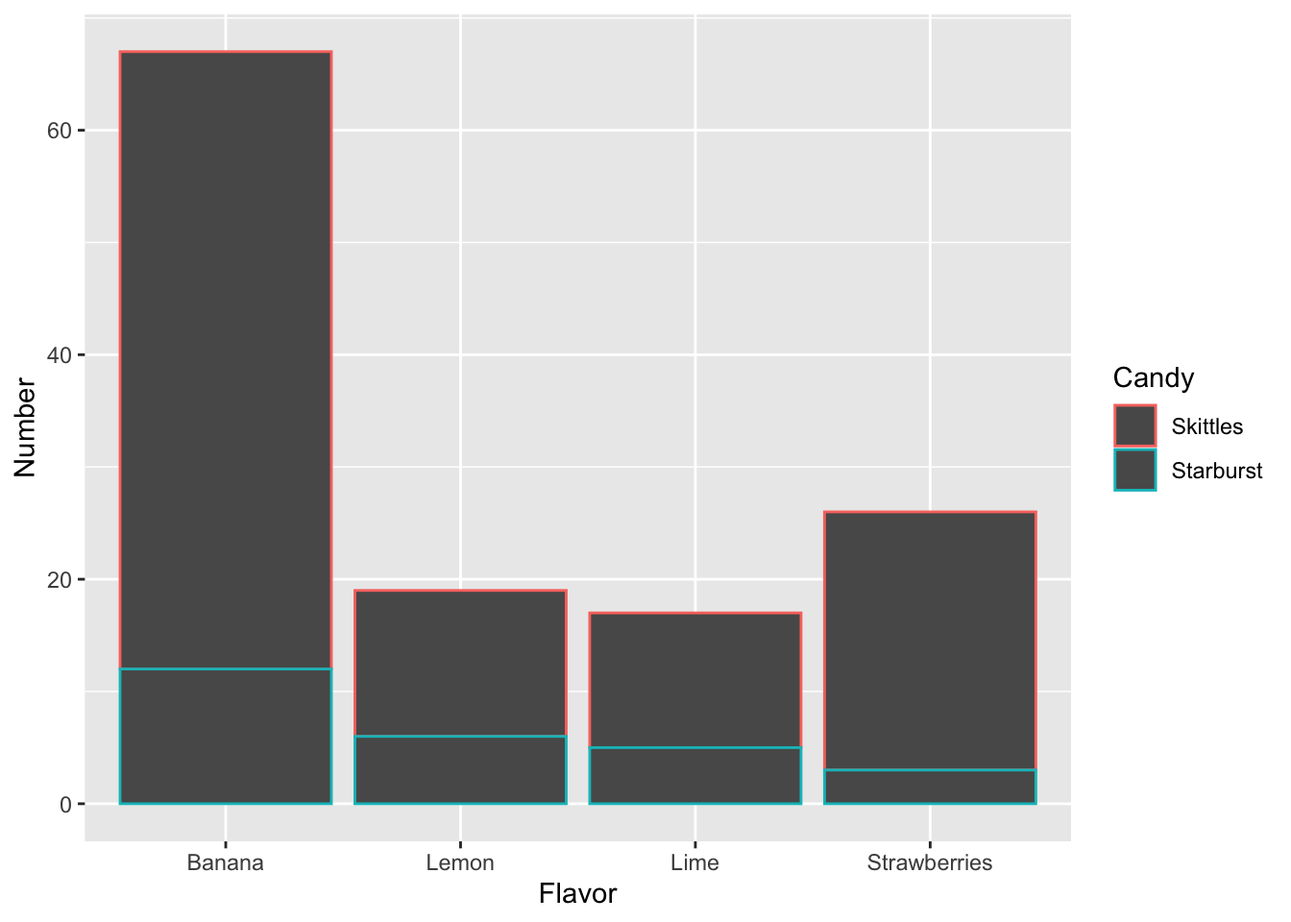
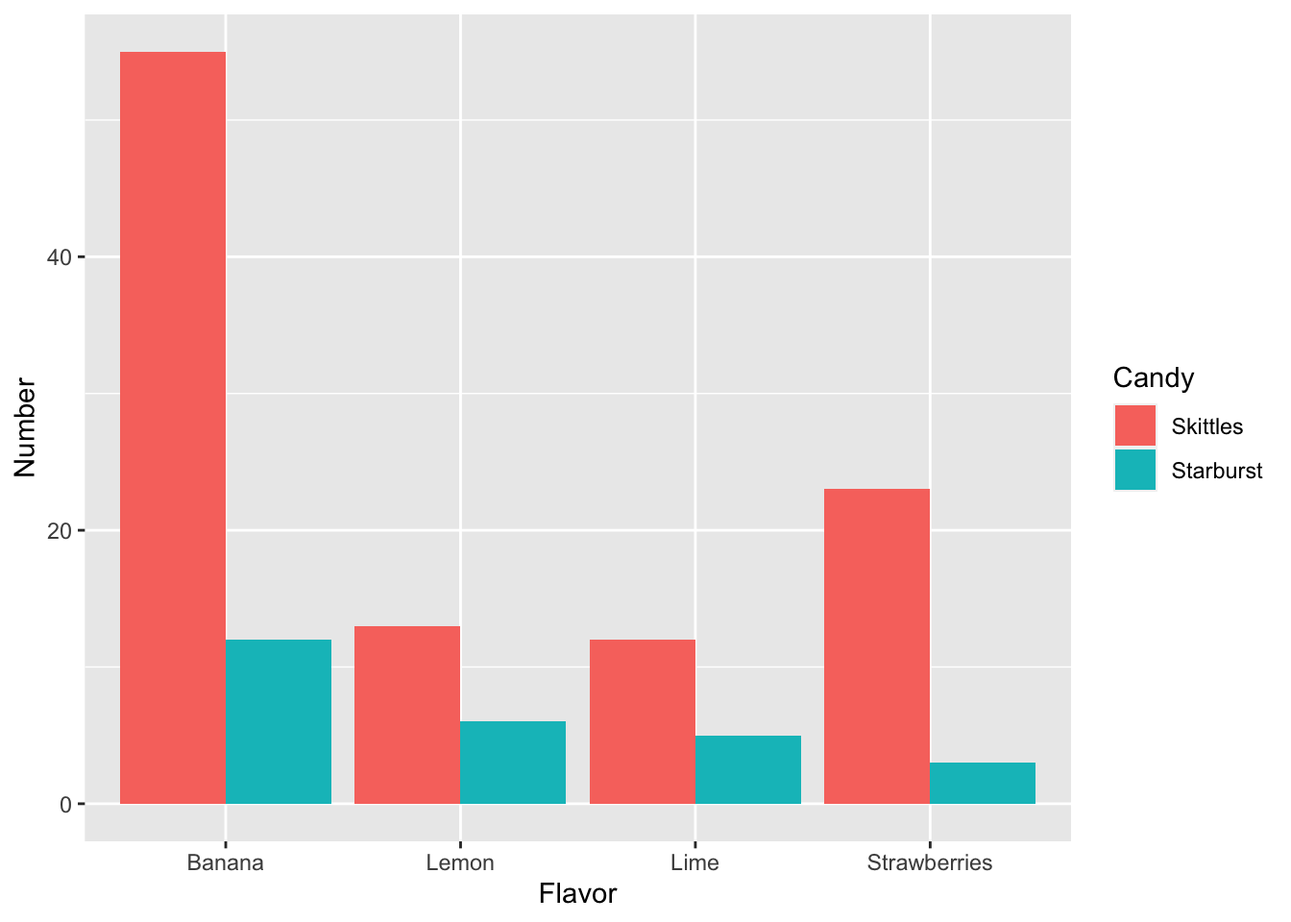
plots

Changed region(s): [[0.0312, 0.0312, 0.8125, 0.875], [0.8438, 0.4375, 0.9062, 0.5312]]

diff --git a/docs/creating-datasets-and-replicability.html b/docs/creating-datasets-and-replicability.html
@@ -181,13 +181,11 @@ code span.wa { color: #60a0b0; font-weight: bold; font-style: italic; } /* Warni
 </ul></li>
 <li class="chapter" data-level="6" data-path="creating-datasets-and-replicability.html"><a href="creating-datasets-and-replicability.html"><i class="fa fa-check"></i><b>6</b> Creating datasets and replicability</a>
 <ul>
-<li class="chapter" data-level="6.1" data-path="creating-datasets-and-replicability.html"><a href="creating-datasets-and-replicability.html#creating-datasets"><i class="fa fa-check"></i><b>6.1</b> Creating datasets</a>
-<ul>
-<li class="chapter" data-level="6.1.1" data-path="creating-datasets-and-replicability.html"><a href="creating-datasets-and-replicability.html#asking-biological-questions-and-identifying-measurable-outcomes"><i class="fa fa-check"></i><b>6.1.1</b> Asking biological questions and identifying measurable outcomes</a></li>
-<li class="chapter" data-level="6.1.2" data-path="creating-datasets-and-replicability.html"><a href="creating-datasets-and-replicability.html#creating-a-clean-raw-dataset"><i class="fa fa-check"></i><b>6.1.2</b> Creating a clean raw dataset</a></li>
-<li class="chapter" data-level="6.1.3" data-path="creating-datasets-and-replicability.html"><a href="creating-datasets-and-replicability.html#creating-basic-basic-plots-in-r"><i class="fa fa-check"></i><b>6.1.3</b> Creating basic (basic) plots in R</a></li>
-<li class="chapter" data-level="6.1.4" data-path="creating-datasets-and-replicability.html"><a href="creating-datasets-and-replicability.html#comparisons-between-groups."><i class="fa fa-check"></i><b>6.1.4</b> Comparisons between groups.</a></li>
-</ul></li>
+<li class="chapter" data-level="6.1" data-path="creating-datasets-and-replicability.html"><a href="creating-datasets-and-replicability.html#creating-basic-datasets"><i class="fa fa-check"></i><b>6.1</b> Creating basic datasets</a></li>
+<li class="chapter" data-level="6.2" data-path="creating-datasets-and-replicability.html"><a href="creating-datasets-and-replicability.html#asking-biological-questions-and-identifying-measurable-outcomes"><i class="fa fa-check"></i><b>6.2</b> Asking biological questions and identifying measurable outcomes</a></li>
+<li class="chapter" data-level="6.3" data-path="creating-datasets-and-replicability.html"><a href="creating-datasets-and-replicability.html#creating-a-clean-raw-dataset"><i class="fa fa-check"></i><b>6.3</b> Creating a clean raw dataset</a></li>
+<li class="chapter" data-level="6.4" data-path="creating-datasets-and-replicability.html"><a href="creating-datasets-and-replicability.html#creating-basic-basic-plots-in-r"><i class="fa fa-check"></i><b>6.4</b> Creating basic (basic) plots in R</a></li>
+<li class="chapter" data-level="6.5" data-path="creating-datasets-and-replicability.html"><a href="creating-datasets-and-replicability.html#comparisons-between-groups."><i class="fa fa-check"></i><b>6.5</b> Comparisons between groups.</a></li>
 </ul></li>
 <li class="divider"></li>
 <li><a href="https://github.com/rstudio/bookdown" target="blank">Published with bookdown</a></li>
@@ -231,13 +229,14 @@ hypothesis?
 </li>
 </ul>
 </div>
-<div id="creating-datasets" class="section level2 hasAnchor" number="6.1">
-<h2><span class="header-section-number">6.1</span> Creating datasets<a href="creating-datasets-and-replicability.html#creating-datasets" class="anchor-section" aria-label="Anchor link to header"></a></h2>
+<div id="creating-basic-datasets" class="section level2 hasAnchor" number="6.1">
+<h2><span class="header-section-number">6.1</span> Creating basic datasets<a href="creating-datasets-and-replicability.html#creating-basic-datasets" class="anchor-section" aria-label="Anchor link to header"></a></h2>
 <p>So, we have a bag of candy in front of us.</p>
 <p>Bags of candy have several different elements on it: The various flavors, the diversity in colors. Some may have different shapes, ect.</p>
 <p>The objective for today is to ask research questions and create a dataset that allows you to answer different questions based on your research focus (in this case, <em>your candy bag</em>)</p>
-<div id="asking-biological-questions-and-identifying-measurable-outcomes" class="section level3 hasAnchor" number="6.1.1">
-<h3><span class="header-section-number">6.1.1</span> Asking biological questions and identifying measurable outcomes<a href="creating-datasets-and-replicability.html#asking-biological-questions-and-identifying-measurable-outcomes" class="anchor-section" aria-label="Anchor link to header"></a></h3>
+</div>
+<div id="asking-biological-questions-and-identifying-measurable-outcomes" class="section level2 hasAnchor" number="6.2">
+<h2><span class="header-section-number">6.2</span> Asking biological questions and identifying measurable outcomes<a href="creating-datasets-and-replicability.html#asking-biological-questions-and-identifying-measurable-outcomes" class="anchor-section" aria-label="Anchor link to header"></a></h2>
 <ol style="list-style-type: decimal">
 <li>Create groups of two students</li>
 <li>Open the bag of candy and generate some observations about it. It can be about anything you find interesting or peaks your interest</li>
@@ -321,8 +320,8 @@ Question 5
 </div>
 <hr />
 </div>
-<div id="creating-a-clean-raw-dataset" class="section level3 hasAnchor" number="6.1.2">
-<h3><span class="header-section-number">6.1.2</span> Creating a clean raw dataset<a href="creating-datasets-and-replicability.html#creating-a-clean-raw-dataset" class="anchor-section" aria-label="Anchor link to header"></a></h3>
+<div id="creating-a-clean-raw-dataset" class="section level2 hasAnchor" number="6.3">
+<h2><span class="header-section-number">6.3</span> Creating a clean raw dataset<a href="creating-datasets-and-replicability.html#creating-a-clean-raw-dataset" class="anchor-section" aria-label="Anchor link to header"></a></h2>
 <ol style="list-style-type: decimal">
 <li><p>Using the same dataset, organize your data in a simple data frame using <a href="https://www.google.com/sheets/about/">Google Sheets</a> or <a href="https://ethercalc.net/">EtherCalc</a></p></li>
 <li><p>Copy your spreadsheet into <code>atom</code>, paste it and save it file into a folder in your desktop called <code>BIOL120</code> with a <code>txt</code> extension (something like <code>data_sheet_candy.txt</code>)</p></li>
@@ -385,8 +384,8 @@ explanation why
 </div>
 <hr />
 </div>
-<div id="creating-basic-basic-plots-in-r" class="section level3 hasAnchor" number="6.1.3">
-<h3><span class="header-section-number">6.1.3</span> Creating basic (basic) plots in R<a href="creating-datasets-and-replicability.html#creating-basic-basic-plots-in-r" class="anchor-section" aria-label="Anchor link to header"></a></h3>
+<div id="creating-basic-basic-plots-in-r" class="section level2 hasAnchor" number="6.4">
+<h2><span class="header-section-number">6.4</span> Creating basic (basic) plots in R<a href="creating-datasets-and-replicability.html#creating-basic-basic-plots-in-r" class="anchor-section" aria-label="Anchor link to header"></a></h2>
 <p>Now that you have your data set readable by a computer program, we can do some very basic visualization to make it easier to interpret.</p>
 <p>To do so, we need to install one simple <code>R package</code> that will allow us to create plots. This package is called <a href="https://ggplot2.tidyverse.org/index.html"><code>ggplot</code></a>.</p>
 <div class="rmdinfo">
@@ -466,8 +465,8 @@ Is this an easier way of comparing your data? Explain why.
 </div>
 <hr />
 </div>
-<div id="comparisons-between-groups." class="section level3 hasAnchor" number="6.1.4">
-<h3><span class="header-section-number">6.1.4</span> Comparisons between groups.<a href="creating-datasets-and-replicability.html#comparisons-between-groups." class="anchor-section" aria-label="Anchor link to header"></a></h3>
+<div id="comparisons-between-groups." class="section level2 hasAnchor" number="6.5">
+<h2><span class="header-section-number">6.5</span> Comparisons between groups.<a href="creating-datasets-and-replicability.html#comparisons-between-groups." class="anchor-section" aria-label="Anchor link to header"></a></h2>
 <p>Now, lets see how our data collection is compared to the other groups</p>
 <ol style="list-style-type: decimal">
 <li>Get together with another group</li>
@@ -674,7 +673,7 @@ In this case, we can separate the flavors from each candy.
 </div>
 <p>Modify the following code with your column names:</p>
 <div class="sourceCode" id="cb10"><pre class="sourceCode r"><code class="sourceCode r"><span id="cb10-1"><a href="creating-datasets-and-replicability.html#cb10-1" aria-hidden="true" tabindex="-1"></a>two_candies <span class="ot">&lt;-</span> <span class="fu">read.table</span>(<span class="st">&#39;data_sheet_two_candies.txt&#39;</span>, <span class="at">header =</span> T)</span></code></pre></div>
-<div class="sourceCode" id="cb11"><pre class="sourceCode r"><code class="sourceCode r"><span id="cb11-1"><a href="creating-datasets-and-replicability.html#cb11-1" aria-hidden="true" tabindex="-1"></a><span class="fu">ggplot</span>(<span class="at">data=</span>two_candies, <span class="fu">aes</span>(<span class="at">x=</span>Flavor, <span class="at">y=</span>Number, <span class="at">color=</span>Candy)) <span class="sc">+</span> <span class="fu">geom_bar</span>(<span class="at">stat=</span><span class="st">&#39;identity&#39;</span>)</span></code></pre></div>
+<div class="sourceCode" id="cb11"><pre class="sourceCode r"><code class="sourceCode r"><span id="cb11-1"><a href="creating-datasets-and-replicability.html#cb11-1" aria-hidden="true" tabindex="-1"></a><span class="fu">ggplot</span>(<span class="at">data=</span>two_candies, <span class="fu">aes</span>(<span class="at">x=</span>Flavor, <span class="at">y=</span>Number, <span class="at">fill=</span>Candy)) <span class="sc">+</span> <span class="fu">geom_bar</span>(<span class="at">stat=</span><span class="st">&#39;identity&#39;</span>, <span class="at">position=</span><span class="st">&quot;dodge&quot;</span>)</span></code></pre></div>
 <p><img src="_main_files/figure-html/two_candy_plot-1.png" width="672" /></p>
 <div class="rmdquestion">
 <h4 id="question-13">
@@ -695,7 +694,6 @@ changed?
 </ul>
 </div>
 
-</div>
 </div>
 </div>
             </section>

diff --git a/docs/404.html b/docs/404.html
@@ -181,13 +181,11 @@ code span.wa { color: #60a0b0; font-weight: bold; font-style: italic; } /* Warni
 </ul></li>
 <li class="chapter" data-level="6" data-path="creating-datasets-and-replicability.html"><a href="creating-datasets-and-replicability.html"><i class="fa fa-check"></i><b>6</b> Creating datasets and replicability</a>
 <ul>
-<li class="chapter" data-level="6.1" data-path="creating-datasets-and-replicability.html"><a href="creating-datasets-and-replicability.html#creating-datasets"><i class="fa fa-check"></i><b>6.1</b> Creating datasets</a>
-<ul>
-<li class="chapter" data-level="6.1.1" data-path="creating-datasets-and-replicability.html"><a href="creating-datasets-and-replicability.html#asking-biological-questions-and-identifying-measurable-outcomes"><i class="fa fa-check"></i><b>6.1.1</b> Asking biological questions and identifying measurable outcomes</a></li>
-<li class="chapter" data-level="6.1.2" data-path="creating-datasets-and-replicability.html"><a href="creating-datasets-and-replicability.html#creating-a-clean-raw-dataset"><i class="fa fa-check"></i><b>6.1.2</b> Creating a clean raw dataset</a></li>
-<li class="chapter" data-level="6.1.3" data-path="creating-datasets-and-replicability.html"><a href="creating-datasets-and-replicability.html#creating-basic-basic-plots-in-r"><i class="fa fa-check"></i><b>6.1.3</b> Creating basic (basic) plots in R</a></li>
-<li class="chapter" data-level="6.1.4" data-path="creating-datasets-and-replicability.html"><a href="creating-datasets-and-replicability.html#comparisons-between-groups."><i class="fa fa-check"></i><b>6.1.4</b> Comparisons between groups.</a></li>
-</ul></li>
+<li class="chapter" data-level="6.1" data-path="creating-datasets-and-replicability.html"><a href="creating-datasets-and-replicability.html#creating-basic-datasets"><i class="fa fa-check"></i><b>6.1</b> Creating basic datasets</a></li>
+<li class="chapter" data-level="6.2" data-path="creating-datasets-and-replicability.html"><a href="creating-datasets-and-replicability.html#asking-biological-questions-and-identifying-measurable-outcomes"><i class="fa fa-check"></i><b>6.2</b> Asking biological questions and identifying measurable outcomes</a></li>
+<li class="chapter" data-level="6.3" data-path="creating-datasets-and-replicability.html"><a href="creating-datasets-and-replicability.html#creating-a-clean-raw-dataset"><i class="fa fa-check"></i><b>6.3</b> Creating a clean raw dataset</a></li>
+<li class="chapter" data-level="6.4" data-path="creating-datasets-and-replicability.html"><a href="creating-datasets-and-replicability.html#creating-basic-basic-plots-in-r"><i class="fa fa-check"></i><b>6.4</b> Creating basic (basic) plots in R</a></li>
+<li class="chapter" data-level="6.5" data-path="creating-datasets-and-replicability.html"><a href="creating-datasets-and-replicability.html#comparisons-between-groups."><i class="fa fa-check"></i><b>6.5</b> Comparisons between groups.</a></li>
 </ul></li>
 <li class="divider"></li>
 <li><a href="https://github.com/rstudio/bookdown" target="blank">Published with bookdown</a></li>

diff --git a/docs/index.html b/docs/index.html
@@ -181,13 +181,11 @@ code span.wa { color: #60a0b0; font-weight: bold; font-style: italic; } /* Warni
 </ul></li>
 <li class="chapter" data-level="6" data-path="creating-datasets-and-replicability.html"><a href="creating-datasets-and-replicability.html"><i class="fa fa-check"></i><b>6</b> Creating datasets and replicability</a>
 <ul>
-<li class="chapter" data-level="6.1" data-path="creating-datasets-and-replicability.html"><a href="creating-datasets-and-replicability.html#creating-datasets"><i class="fa fa-check"></i><b>6.1</b> Creating datasets</a>
-<ul>
-<li class="chapter" data-level="6.1.1" data-path="creating-datasets-and-replicability.html"><a href="creating-datasets-and-replicability.html#asking-biological-questions-and-identifying-measurable-outcomes"><i class="fa fa-check"></i><b>6.1.1</b> Asking biological questions and identifying measurable outcomes</a></li>
-<li class="chapter" data-level="6.1.2" data-path="creating-datasets-and-replicability.html"><a href="creating-datasets-and-replicability.html#creating-a-clean-raw-dataset"><i class="fa fa-check"></i><b>6.1.2</b> Creating a clean raw dataset</a></li>
-<li class="chapter" data-level="6.1.3" data-path="creating-datasets-and-replicability.html"><a href="creating-datasets-and-replicability.html#creating-basic-basic-plots-in-r"><i class="fa fa-check"></i><b>6.1.3</b> Creating basic (basic) plots in R</a></li>
-<li class="chapter" data-level="6.1.4" data-path="creating-datasets-and-replicability.html"><a href="creating-datasets-and-replicability.html#comparisons-between-groups."><i class="fa fa-check"></i><b>6.1.4</b> Comparisons between groups.</a></li>
-</ul></li>
+<li class="chapter" data-level="6.1" data-path="creating-datasets-and-replicability.html"><a href="creating-datasets-and-replicability.html#creating-basic-datasets"><i class="fa fa-check"></i><b>6.1</b> Creating basic datasets</a></li>
+<li class="chapter" data-level="6.2" data-path="creating-datasets-and-replicability.html"><a href="creating-datasets-and-replicability.html#asking-biological-questions-and-identifying-measurable-outcomes"><i class="fa fa-check"></i><b>6.2</b> Asking biological questions and identifying measurable outcomes</a></li>
+<li class="chapter" data-level="6.3" data-path="creating-datasets-and-replicability.html"><a href="creating-datasets-and-replicability.html#creating-a-clean-raw-dataset"><i class="fa fa-check"></i><b>6.3</b> Creating a clean raw dataset</a></li>
+<li class="chapter" data-level="6.4" data-path="creating-datasets-and-replicability.html"><a href="creating-datasets-and-replicability.html#creating-basic-basic-plots-in-r"><i class="fa fa-check"></i><b>6.4</b> Creating basic (basic) plots in R</a></li>
+<li class="chapter" data-level="6.5" data-path="creating-datasets-and-replicability.html"><a href="creating-datasets-and-replicability.html#comparisons-between-groups."><i class="fa fa-check"></i><b>6.5</b> Comparisons between groups.</a></li>
 </ul></li>
 <li class="divider"></li>
 <li><a href="https://github.com/rstudio/bookdown" target="blank">Published with bookdown</a></li>

diff --git a/docs/rmark.html b/docs/rmark.html
@@ -181,13 +181,11 @@ code span.wa { color: #60a0b0; font-weight: bold; font-style: italic; } /* Warni
 </ul></li>
 <li class="chapter" data-level="6" data-path="creating-datasets-and-replicability.html"><a href="creating-datasets-and-replicability.html"><i class="fa fa-check"></i><b>6</b> Creating datasets and replicability</a>
 <ul>
-<li class="chapter" data-level="6.1" data-path="creating-datasets-and-replicability.html"><a href="creating-datasets-and-replicability.html#creating-datasets"><i class="fa fa-check"></i><b>6.1</b> Creating datasets</a>
-<ul>
-<li class="chapter" data-level="6.1.1" data-path="creating-datasets-and-replicability.html"><a href="creating-datasets-and-replicability.html#asking-biological-questions-and-identifying-measurable-outcomes"><i class="fa fa-check"></i><b>6.1.1</b> Asking biological questions and identifying measurable outcomes</a></li>
-<li class="chapter" data-level="6.1.2" data-path="creating-datasets-and-replicability.html"><a href="creating-datasets-and-replicability.html#creating-a-clean-raw-dataset"><i class="fa fa-check"></i><b>6.1.2</b> Creating a clean raw dataset</a></li>
-<li class="chapter" data-level="6.1.3" data-path="creating-datasets-and-replicability.html"><a href="creating-datasets-and-replicability.html#creating-basic-basic-plots-in-r"><i class="fa fa-check"></i><b>6.1.3</b> Creating basic (basic) plots in R</a></li>
-<li class="chapter" data-level="6.1.4" data-path="creating-datasets-and-replicability.html"><a href="creating-datasets-and-replicability.html#comparisons-between-groups."><i class="fa fa-check"></i><b>6.1.4</b> Comparisons between groups.</a></li>
-</ul></li>
+<li class="chapter" data-level="6.1" data-path="creating-datasets-and-replicability.html"><a href="creating-datasets-and-replicability.html#creating-basic-datasets"><i class="fa fa-check"></i><b>6.1</b> Creating basic datasets</a></li>
+<li class="chapter" data-level="6.2" data-path="creating-datasets-and-replicability.html"><a href="creating-datasets-and-replicability.html#asking-biological-questions-and-identifying-measurable-outcomes"><i class="fa fa-check"></i><b>6.2</b> Asking biological questions and identifying measurable outcomes</a></li>
+<li class="chapter" data-level="6.3" data-path="creating-datasets-and-replicability.html"><a href="creating-datasets-and-replicability.html#creating-a-clean-raw-dataset"><i class="fa fa-check"></i><b>6.3</b> Creating a clean raw dataset</a></li>
+<li class="chapter" data-level="6.4" data-path="creating-datasets-and-replicability.html"><a href="creating-datasets-and-replicability.html#creating-basic-basic-plots-in-r"><i class="fa fa-check"></i><b>6.4</b> Creating basic (basic) plots in R</a></li>
+<li class="chapter" data-level="6.5" data-path="creating-datasets-and-replicability.html"><a href="creating-datasets-and-replicability.html#comparisons-between-groups."><i class="fa fa-check"></i><b>6.5</b> Comparisons between groups.</a></li>
 </ul></li>
 <li class="divider"></li>
 <li><a href="https://github.com/rstudio/bookdown" target="blank">Published with bookdown</a></li>

diff --git a/docs/software.html b/docs/software.html
@@ -181,13 +181,11 @@ code span.wa { color: #60a0b0; font-weight: bold; font-style: italic; } /* Warni
 </ul></li>
 <li class="chapter" data-level="6" data-path="creating-datasets-and-replicability.html"><a href="creating-datasets-and-replicability.html"><i class="fa fa-check"></i><b>6</b> Creating datasets and replicability</a>
 <ul>
-<li class="chapter" data-level="6.1" data-path="creating-datasets-and-replicability.html"><a href="creating-datasets-and-replicability.html#creating-datasets"><i class="fa fa-check"></i><b>6.1</b> Creating datasets</a>
-<ul>
-<li class="chapter" data-level="6.1.1" data-path="creating-datasets-and-replicability.html"><a href="creating-datasets-and-replicability.html#asking-biological-questions-and-identifying-measurable-outcomes"><i class="fa fa-check"></i><b>6.1.1</b> Asking biological questions and identifying measurable outcomes</a></li>
-<li class="chapter" data-level="6.1.2" data-path="creating-datasets-and-replicability.html"><a href="creating-datasets-and-replicability.html#creating-a-clean-raw-dataset"><i class="fa fa-check"></i><b>6.1.2</b> Creating a clean raw dataset</a></li>
-<li class="chapter" data-level="6.1.3" data-path="creating-datasets-and-replicability.html"><a href="creating-datasets-and-replicability.html#creating-basic-basic-plots-in-r"><i class="fa fa-check"></i><b>6.1.3</b> Creating basic (basic) plots in R</a></li>
-<li class="chapter" data-level="6.1.4" data-path="creating-datasets-and-replicability.html"><a href="creating-datasets-and-replicability.html#comparisons-between-groups."><i class="fa fa-check"></i><b>6.1.4</b> Comparisons between groups.</a></li>
-</ul></li>
+<li class="chapter" data-level="6.1" data-path="creating-datasets-and-replicability.html"><a href="creating-datasets-and-replicability.html#creating-basic-datasets"><i class="fa fa-check"></i><b>6.1</b> Creating basic datasets</a></li>
+<li class="chapter" data-level="6.2" data-path="creating-datasets-and-replicability.html"><a href="creating-datasets-and-replicability.html#asking-biological-questions-and-identifying-measurable-outcomes"><i class="fa fa-check"></i><b>6.2</b> Asking biological questions and identifying measurable outcomes</a></li>
+<li class="chapter" data-level="6.3" data-path="creating-datasets-and-replicability.html"><a href="creating-datasets-and-replicability.html#creating-a-clean-raw-dataset"><i class="fa fa-check"></i><b>6.3</b> Creating a clean raw dataset</a></li>
+<li class="chapter" data-level="6.4" data-path="creating-datasets-and-replicability.html"><a href="creating-datasets-and-replicability.html#creating-basic-basic-plots-in-r"><i class="fa fa-check"></i><b>6.4</b> Creating basic (basic) plots in R</a></li>
+<li class="chapter" data-level="6.5" data-path="creating-datasets-and-replicability.html"><a href="creating-datasets-and-replicability.html#comparisons-between-groups."><i class="fa fa-check"></i><b>6.5</b> Comparisons between groups.</a></li>
 </ul></li>
 <li class="divider"></li>
 <li><a href="https://github.com/rstudio/bookdown" target="blank">Published with bookdown</a></li>

diff --git a/docs/structure-of-the-guidebook-and-faqs.html b/docs/structure-of-the-guidebook-and-faqs.html
@@ -181,13 +181,11 @@ code span.wa { color: #60a0b0; font-weight: bold; font-style: italic; } /* Warni
 </ul></li>
 <li class="chapter" data-level="6" data-path="creating-datasets-and-replicability.html"><a href="creating-datasets-and-replicability.html"><i class="fa fa-check"></i><b>6</b> Creating datasets and replicability</a>
 <ul>
-<li class="chapter" data-level="6.1" data-path="creating-datasets-and-replicability.html"><a href="creating-datasets-and-replicability.html#creating-datasets"><i class="fa fa-check"></i><b>6.1</b> Creating datasets</a>
-<ul>
-<li class="chapter" data-level="6.1.1" data-path="creating-datasets-and-replicability.html"><a href="creating-datasets-and-replicability.html#asking-biological-questions-and-identifying-measurable-outcomes"><i class="fa fa-check"></i><b>6.1.1</b> Asking biological questions and identifying measurable outcomes</a></li>
-<li class="chapter" data-level="6.1.2" data-path="creating-datasets-and-replicability.html"><a href="creating-datasets-and-replicability.html#creating-a-clean-raw-dataset"><i class="fa fa-check"></i><b>6.1.2</b> Creating a clean raw dataset</a></li>
-<li class="chapter" data-level="6.1.3" data-path="creating-datasets-and-replicability.html"><a href="creating-datasets-and-replicability.html#creating-basic-basic-plots-in-r"><i class="fa fa-check"></i><b>6.1.3</b> Creating basic (basic) plots in R</a></li>
-<li class="chapter" data-level="6.1.4" data-path="creating-datasets-and-replicability.html"><a href="creating-datasets-and-replicability.html#comparisons-between-groups."><i class="fa fa-check"></i><b>6.1.4</b> Comparisons between groups.</a></li>
-</ul></li>
+<li class="chapter" data-level="6.1" data-path="creating-datasets-and-replicability.html"><a href="creating-datasets-and-replicability.html#creating-basic-datasets"><i class="fa fa-check"></i><b>6.1</b> Creating basic datasets</a></li>
+<li class="chapter" data-level="6.2" data-path="creating-datasets-and-replicability.html"><a href="creating-datasets-and-replicability.html#asking-biological-questions-and-identifying-measurable-outcomes"><i class="fa fa-check"></i><b>6.2</b> Asking biological questions and identifying measurable outcomes</a></li>
+<li class="chapter" data-level="6.3" data-path="creating-datasets-and-replicability.html"><a href="creating-datasets-and-replicability.html#creating-a-clean-raw-dataset"><i class="fa fa-check"></i><b>6.3</b> Creating a clean raw dataset</a></li>
+<li class="chapter" data-level="6.4" data-path="creating-datasets-and-replicability.html"><a href="creating-datasets-and-replicability.html#creating-basic-basic-plots-in-r"><i class="fa fa-check"></i><b>6.4</b> Creating basic (basic) plots in R</a></li>
+<li class="chapter" data-level="6.5" data-path="creating-datasets-and-replicability.html"><a href="creating-datasets-and-replicability.html#comparisons-between-groups."><i class="fa fa-check"></i><b>6.5</b> Comparisons between groups.</a></li>
 </ul></li>
 <li class="divider"></li>
 <li><a href="https://github.com/rstudio/bookdown" target="blank">Published with bookdown</a></li>

diff --git a/docs/testing-the-software.html b/docs/testing-the-software.html
@@ -181,13 +181,11 @@ code span.wa { color: #60a0b0; font-weight: bold; font-style: italic; } /* Warni
 </ul></li>
 <li class="chapter" data-level="6" data-path="creating-datasets-and-replicability.html"><a href="creating-datasets-and-replicability.html"><i class="fa fa-check"></i><b>6</b> Creating datasets and replicability</a>
 <ul>
-<li class="chapter" data-level="6.1" data-path="creating-datasets-and-replicability.html"><a href="creating-datasets-and-replicability.html#creating-datasets"><i class="fa fa-check"></i><b>6.1</b> Creating datasets</a>
-<ul>
-<li class="chapter" data-level="6.1.1" data-path="creating-datasets-and-replicability.html"><a href="creating-datasets-and-replicability.html#asking-biological-questions-and-identifying-measurable-outcomes"><i class="fa fa-check"></i><b>6.1.1</b> Asking biological questions and identifying measurable outcomes</a></li>
-<li class="chapter" data-level="6.1.2" data-path="creating-datasets-and-replicability.html"><a href="creating-datasets-and-replicability.html#creating-a-clean-raw-dataset"><i class="fa fa-check"></i><b>6.1.2</b> Creating a clean raw dataset</a></li>
-<li class="chapter" data-level="6.1.3" data-path="creating-datasets-and-replicability.html"><a href="creating-datasets-and-replicability.html#creating-basic-basic-plots-in-r"><i class="fa fa-check"></i><b>6.1.3</b> Creating basic (basic) plots in R</a></li>
-<li class="chapter" data-level="6.1.4" data-path="creating-datasets-and-replicability.html"><a href="creating-datasets-and-replicability.html#comparisons-between-groups."><i class="fa fa-check"></i><b>6.1.4</b> Comparisons between groups.</a></li>
-</ul></li>
+<li class="chapter" data-level="6.1" data-path="creating-datasets-and-replicability.html"><a href="creating-datasets-and-replicability.html#creating-basic-datasets"><i class="fa fa-check"></i><b>6.1</b> Creating basic datasets</a></li>
+<li class="chapter" data-level="6.2" data-path="creating-datasets-and-replicability.html"><a href="creating-datasets-and-replicability.html#asking-biological-questions-and-identifying-measurable-outcomes"><i class="fa fa-check"></i><b>6.2</b> Asking biological questions and identifying measurable outcomes</a></li>
+<li class="chapter" data-level="6.3" data-path="creating-datasets-and-replicability.html"><a href="creating-datasets-and-replicability.html#creating-a-clean-raw-dataset"><i class="fa fa-check"></i><b>6.3</b> Creating a clean raw dataset</a></li>
+<li class="chapter" data-level="6.4" data-path="creating-datasets-and-replicability.html"><a href="creating-datasets-and-replicability.html#creating-basic-basic-plots-in-r"><i class="fa fa-check"></i><b>6.4</b> Creating basic (basic) plots in R</a></li>
+<li class="chapter" data-level="6.5" data-path="creating-datasets-and-replicability.html"><a href="creating-datasets-and-replicability.html#comparisons-between-groups."><i class="fa fa-check"></i><b>6.5</b> Comparisons between groups.</a></li>
 </ul></li>
 <li class="divider"></li>
 <li><a href="https://github.com/rstudio/bookdown" target="blank">Published with bookdown</a></li>
